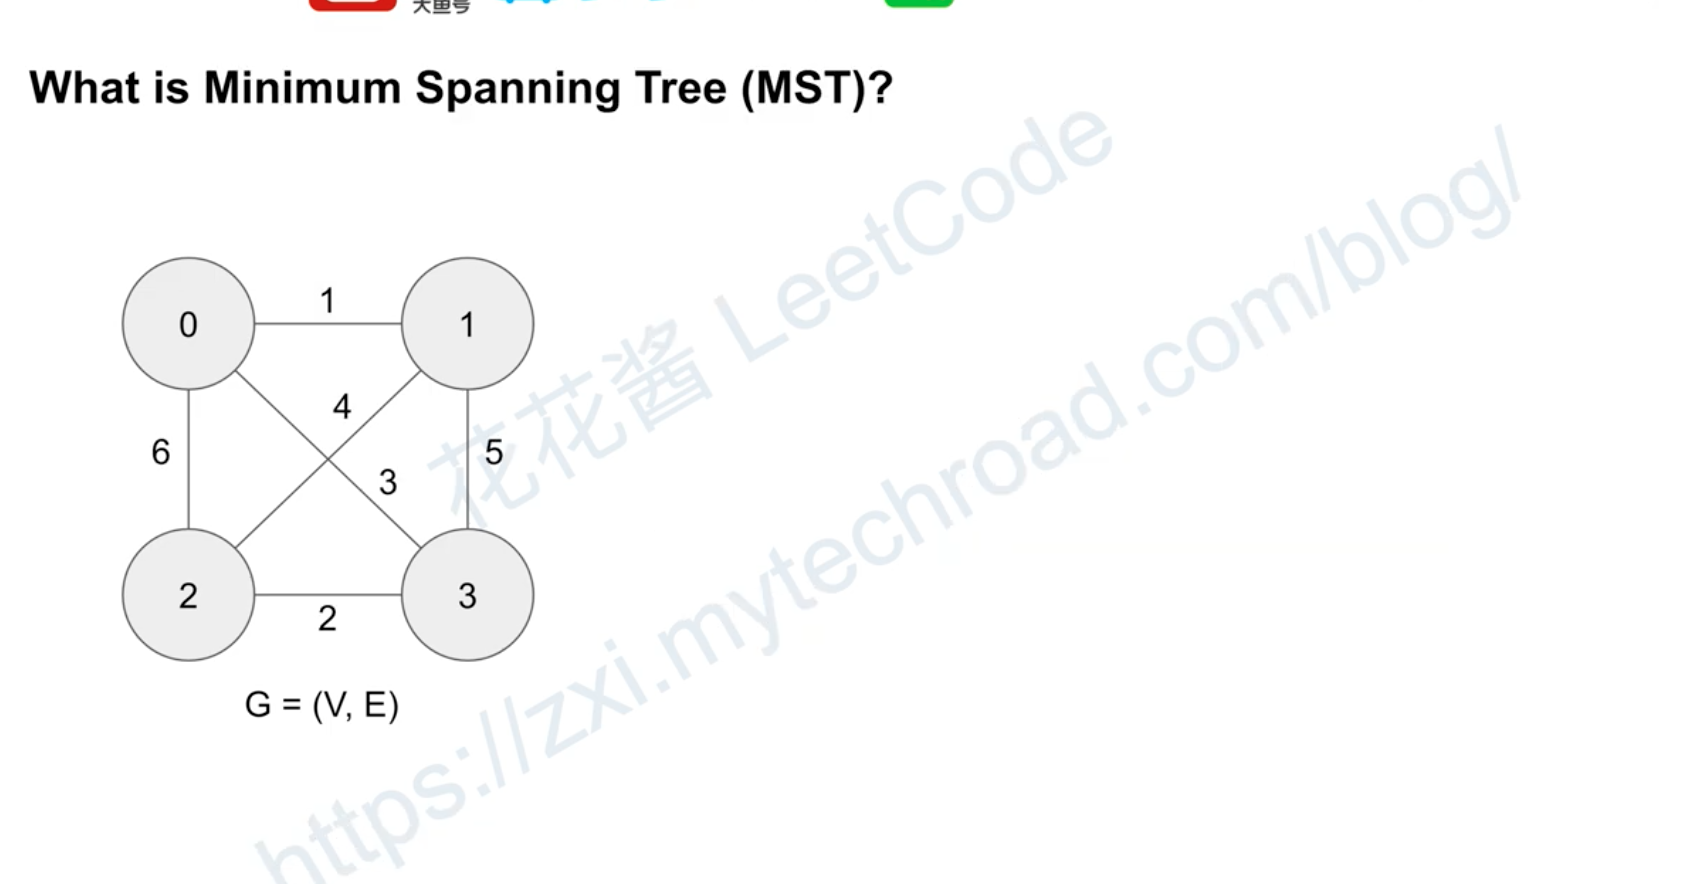
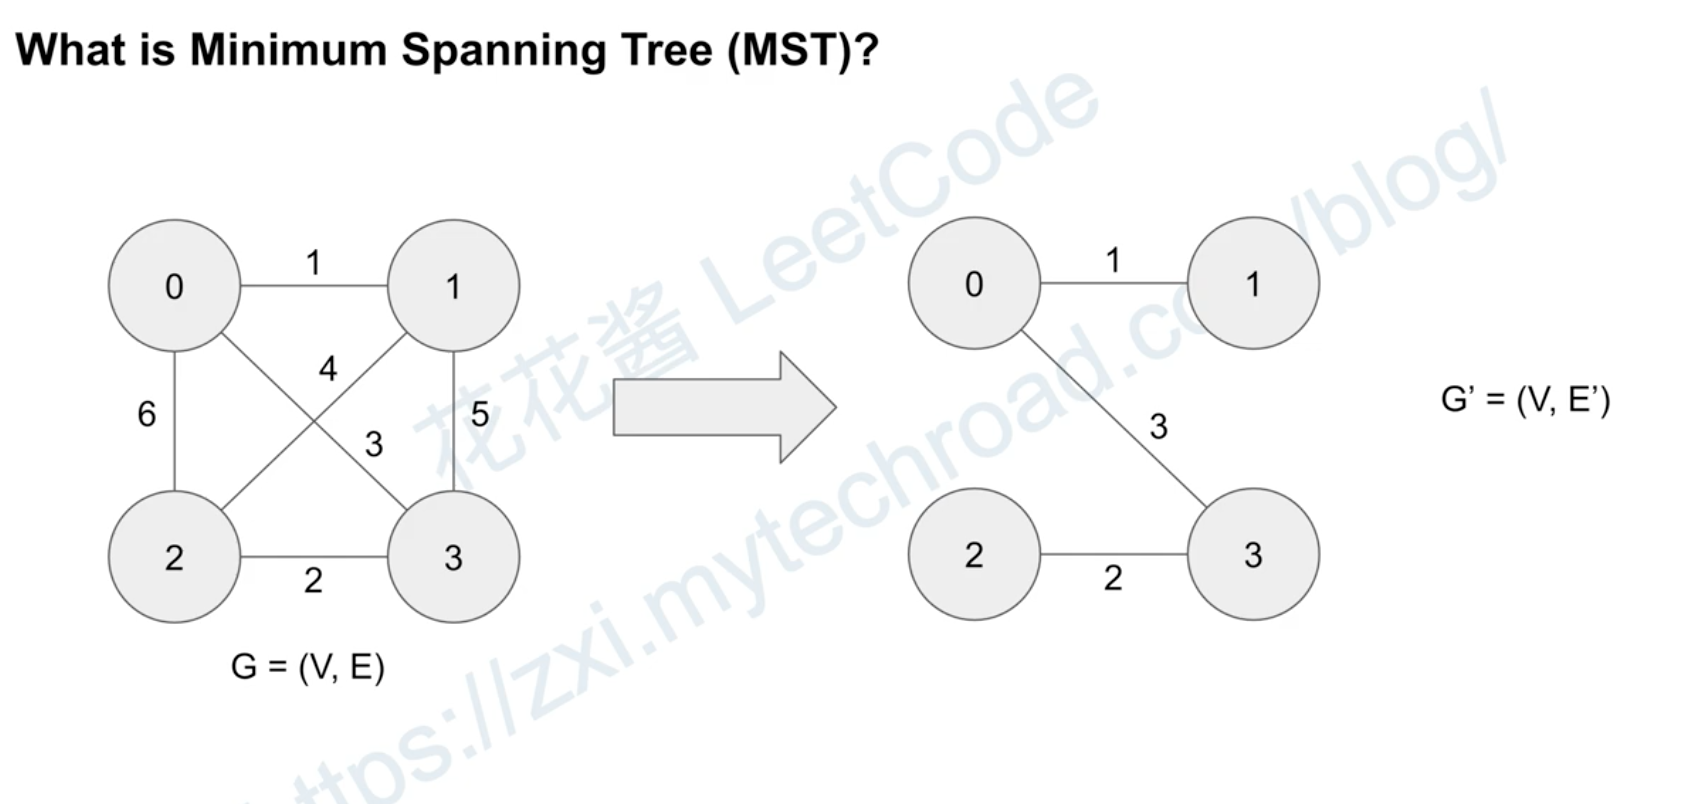
change

diff --git a/Algorithm/Graph.md b/Algorithm/Graph.md
@@ -1,4 +1,11 @@
 
 What is spanning tree?
 ![spanning tree](./img/spanningTree.png)
+
+
+What is Minimum Spanning Tree(MST)?
+- 带权重的图
+- 最小的权重图使得每个node都cover
+- 可能有多个解
+
 ![spanning tree](./img/mst.png)
